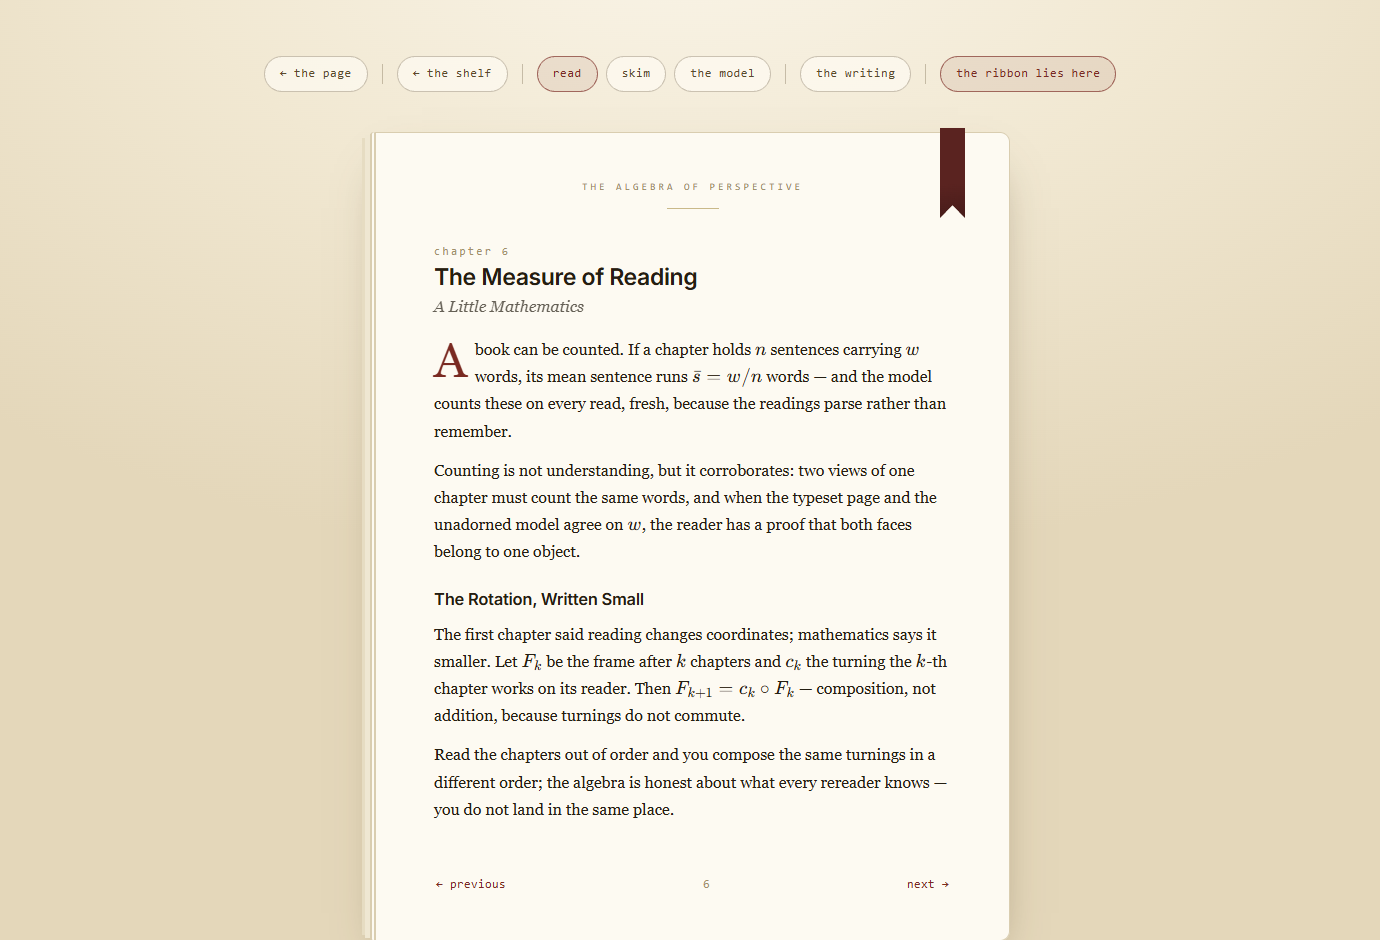
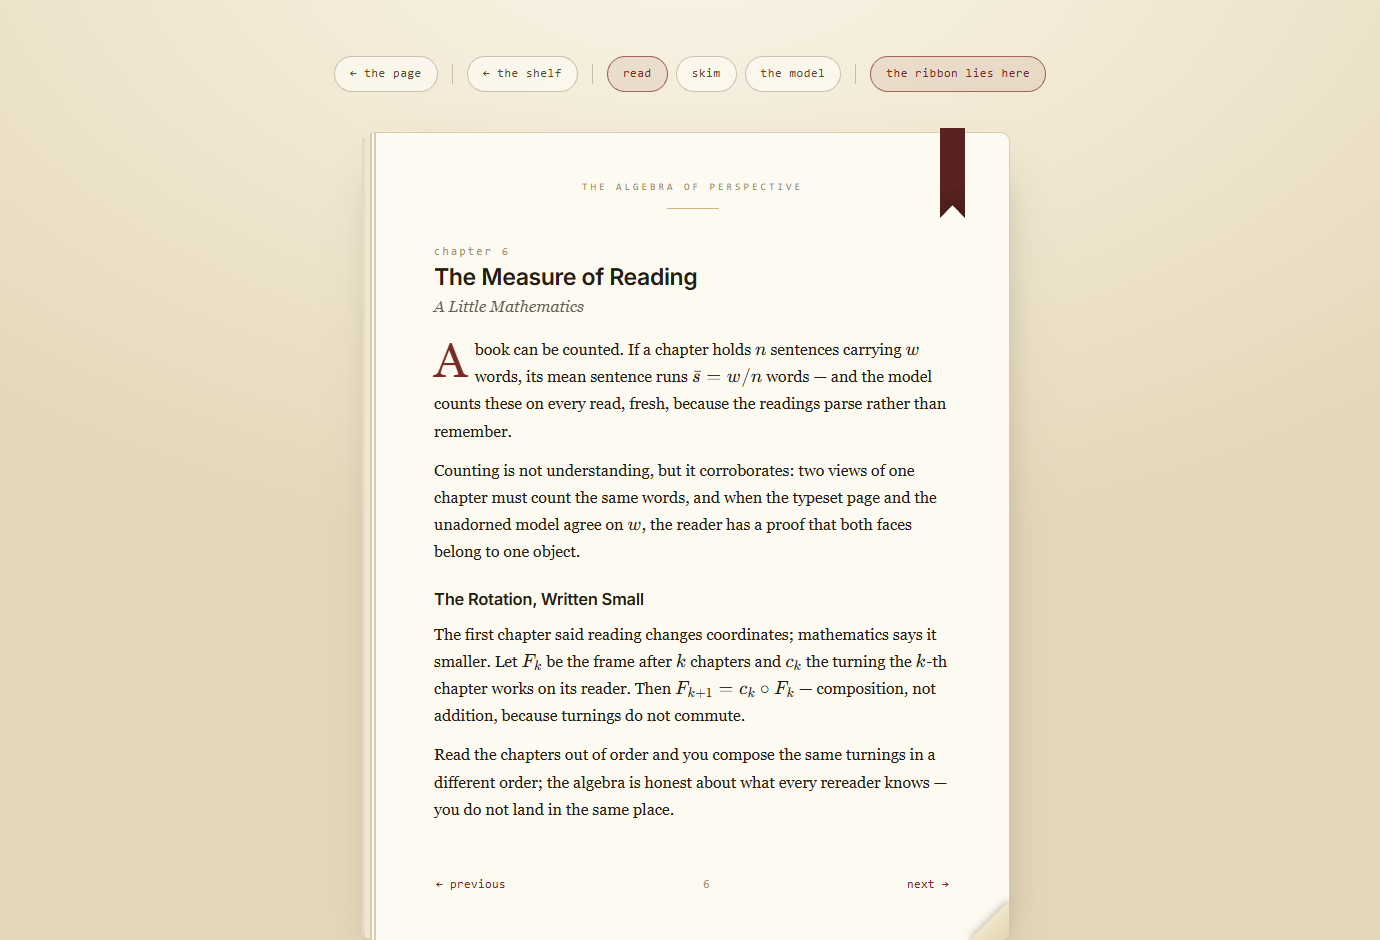
One cover, and the manuscript (Doug's demo pass): the face IS the cover — opening lands inside on the contents (folio 1), leafing back past the contents closes the book to its cover, the cover renders once; the code integrated INTO the book — a dog-eared corner turns every page over to its MANUSCRIP

Changed region(s): [[0.2181, 0.0617, 0.8101, 0.1234], [0.6855, 0.9564, 0.7478, 1.0]]

diff --git a/library/.public/package/app/src/sections/the-books.tsx b/library/.public/package/app/src/sections/the-books.tsx
@@ -37,7 +37,7 @@ import {
     Page, RunningHead, PageBody, PageTurns, PageTurn, Folio,
     ChapterNumber, ChapterTitle, ChapterSubtitle, Prose, EntryIndex,
     SectionHead, SectionSub, TocPage, TocLine, TocTag,
-    CodeDrawer, CodeTabs, CodeTab, CodeBlock, Ribbon,
+    CodeTabs, CodeTab, CodeBlock, Ribbon, DogEar,
 } from './book/books.styled';
 
 const modelSources: Record<string, string> = {
@@ -52,7 +52,7 @@ const modelSources: Record<string, string> = {
     'Bookmark.tsx': bookmarkSource,
 };
 
-const writingSources: Record<string, Record<string, string>> = {
+const manuscripts: Record<string, Record<string, string>> = {
     algebra: {
         '01-the-cover.tsx': algebraCoverSource,
         '02-the-synopsis.tsx': algebraSynopsisSource,
@@ -123,7 +123,7 @@ const row = (c: $Chapter, i: number): Row => ({
 const shelve = (key: string, ink: string, tall: number, b: $Book): Shelved => {
     b.ref = $(<Link for={`/books/${key}`}>{b.title?.copy ?? key}</Link>) as $Link;
     const rows = b.chapters.map(row);
-    const names = Object.keys(writingSources[key]);
+    const names = Object.keys(manuscripts[key]);
     rows.forEach((r, i) => {
         r.source = r.contents ? 'TableOfContents.tsx' : i === 0 ? names[0] : names[i - 1];
     });
@@ -248,9 +248,9 @@ function rightPage(b: Shelved, r: Row, mode: string, jump: (page: number) => voi
 class $TheBooks extends $Chemical {
     opened = '';
     open = false;
-    page = 0;
+    page = 1;
     mode = 'read';
-    writing = false;
+    over = false;
     tab = '';
     marked = '';
     ribbon = '';
@@ -258,7 +258,8 @@ class $TheBooks extends $Chemical {
     turn(p: number) {
         const held = shelf.find(b => b.key === this.opened);
         if (!held) return;
-        this.page = Math.max(0, Math.min(held.rows.length - 1, p));
+        this.over = false;
+        this.page = Math.max(1, Math.min(held.rows.length - 1, p));
         this.tab = held.rows[this.page].source;
     }
 
@@ -277,14 +278,14 @@ class $TheBooks extends $Chemical {
     }
 
     close() {
-        this.writing = false;
+        this.over = false;
         this.tab = '';
         this.marked = '';
         this.ribbon = '';
         setTimeout(() => {
             this.opened = '';
             this.open = false;
-            this.page = 0;
+            this.page = 1;
             this.mode = 'read';
         }, 0);
     }
@@ -306,10 +307,8 @@ class $TheBooks extends $Chemical {
                             <DayChip onClick={() => this.close()}>← the shelf</DayChip>
                             <DayRule />
                             <DayChip $active={this.mode === 'read'} onClick={() => { this.mode = 'read'; this.turn(this.page); }}>read</DayChip>
-                            <DayChip $active={this.mode === 'skim'} onClick={() => { this.mode = 'skim'; this.tab = 'Chapter.tsx'; }}>skim</DayChip>
-                            <DayChip $active={this.mode === 'model'} onClick={() => { this.mode = 'model'; this.tab = 'Book.tsx'; }}>the model</DayChip>
-                            <DayRule />
-                            <DayChip $active={this.writing} onClick={() => { this.writing = !this.writing; }}>the writing</DayChip>
+                            <DayChip $active={this.mode === 'skim'} onClick={() => { this.mode = 'skim'; }}>skim</DayChip>
+                            <DayChip $active={this.mode === 'model'} onClick={() => { this.mode = 'model'; }}>the model</DayChip>
                             {current && current.Opening === ChapterOpening && (
                                 <>
                                     <DayRule />
@@ -335,7 +334,7 @@ class $TheBooks extends $Chemical {
                     </ShelfBoard>
                 )}
                 {held && !this.open && (
-                    <CoverFace $ink={held.ink} data-cover onClick={() => { this.open = true; this.turn(0); }}>
+                    <CoverFace $ink={held.ink} data-cover onClick={() => { this.open = true; this.turn(1); }}>
                         <CoverTitle>{held.title}</CoverTitle>
                         {held.subtitle && <CoverSubtitle>{held.subtitle}</CoverSubtitle>}
                         <CoverRule />
@@ -343,66 +342,74 @@ class $TheBooks extends $Chemical {
                         <CoverInvitation>open the book →</CoverInvitation>
                     </CoverFace>
                 )}
-                {held && this.open && current && (
-                    <Page className="book-page">
-                        {this.marked && (
-                            <Ribbon
-                                data-ribbon
-                                $ink={held.ink}
-                                title={`the bookmark — ${this.ribbon}`}
-                                onClick={() => this.follow()}
-                            />
-                        )}
-                        <RunningHead
-                            style={{ cursor: 'pointer' }}
-                            title={current.contents ? 'to the cover' : 'to the contents'}
-                            onClick={() => this.turn(current.contents ? 0 : held.rows.findIndex(r => r.contents))}
-                        >
-                            {held.title}
-                        </RunningHead>
-                        <PageBody className="page-body">{rightPage(held, current, this.mode, (p) => this.turn(p))}</PageBody>
-                        <PageTurns>
-                            <PageTurn disabled={this.page === 0} onClick={() => { this.page = Math.max(0, this.page - 1); }}>
-                                ← previous
-                            </PageTurn>
-                            <Folio>{current.index}</Folio>
-                            <PageTurn disabled={this.page === held.rows.length - 1} onClick={() => { this.page = Math.min(held.rows.length - 1, this.page + 1); }}>
-                                next →
-                            </PageTurn>
-                        </PageTurns>
-                    </Page>
-                )}
-                {held && this.open && this.writing && (() => {
-                    const sources = { ...modelSources, ...writingSources[held.key] };
-                    const names = Object.keys(sources);
-                    const writingNames = Object.keys(writingSources[held.key]);
-                    const tab = names.includes(this.tab) ? this.tab : writingNames[Math.min(this.page, writingNames.length - 1)] ?? names[0];
+                {held && this.open && current && (() => {
+                    const sources = { ...modelSources, ...manuscripts[held.key] };
+                    const names = [current.source, ...Object.keys(modelSources).filter(n => n !== current.source)];
+                    const leaf = names.includes(this.tab) ? this.tab : current.source;
                     return (
-                        <CodeDrawer className="writing-drawer">
-                            <CodeTabs>
-                                {names.map(name => (
-                                    <CodeTab key={name} $active={tab === name} onClick={() => { this.tab = name; }}>
-                                        {name}
-                                    </CodeTab>
-                                ))}
-                            </CodeTabs>
-                            <CodeBlock>
-                                <Highlight code={sources[tab].trim()} language="tsx" theme={themes.github}>
-                                    {({ tokens, getLineProps, getTokenProps }) => (
-                                        <pre>
-                                            {tokens.map((line, i) => (
-                                                <div key={i} {...getLineProps({ line })}>
-                                                    <span className="line-number">{i + 1}</span>
-                                                    {line.map((token, j) => (
-                                                        <span key={j} {...getTokenProps({ token })} />
+                        <Page className={this.over ? 'book-page verso' : 'book-page'} style={this.over ? { background: '#fbf5e6' } : undefined}>
+                            {this.marked && (
+                                <Ribbon
+                                    data-ribbon
+                                    $ink={held.ink}
+                                    title={`the bookmark — ${this.ribbon}`}
+                                    onClick={() => this.follow()}
+                                />
+                            )}
+                            <RunningHead
+                                style={{ cursor: 'pointer' }}
+                                title={this.over ? 'turn back to the page' : current.contents ? 'to the cover' : 'to the contents'}
+                                onClick={() => {
+                                    if (this.over) this.over = false;
+                                    else if (current.contents) this.open = false;
+                                    else this.turn(held.rows.findIndex(r => r.contents));
+                                }}
+                            >
+                                {this.over ? `${leaf} — the manuscript` : held.title}
+                            </RunningHead>
+                            {!this.over && <PageBody className="page-body">{rightPage(held, current, this.mode, (p) => this.turn(p))}</PageBody>}
+                            {this.over && (
+                                <PageBody className="page-body manuscript">
+                                    <CodeTabs>
+                                        {names.map(name => (
+                                            <CodeTab key={name} $active={leaf === name} onClick={() => { this.tab = name; }}>
+                                                {name}
+                                            </CodeTab>
+                                        ))}
+                                    </CodeTabs>
+                                    <CodeBlock>
+                                        <Highlight code={sources[leaf].trim()} language="tsx" theme={themes.github}>
+                                            {({ tokens, getLineProps, getTokenProps }) => (
+                                                <pre>
+                                                    {tokens.map((line, i) => (
+                                                        <div key={i} {...getLineProps({ line })}>
+                                                            <span className="line-number">{i + 1}</span>
+                                                            {line.map((token, j) => (
+                                                                <span key={j} {...getTokenProps({ token })} />
+                                                            ))}
+                                                        </div>
                                                     ))}
-                                                </div>
-                                            ))}
-                                        </pre>
-                                    )}
-                                </Highlight>
-                            </CodeBlock>
-                        </CodeDrawer>
+                                                </pre>
+                                            )}
+                                        </Highlight>
+                                    </CodeBlock>
+                                </PageBody>
+                            )}
+                            <PageTurns>
+                                <PageTurn onClick={() => { if (this.page <= 1) this.open = false; else this.turn(this.page - 1); }}>
+                                    {this.page <= 1 ? '← the cover' : '← previous'}
+                                </PageTurn>
+                                <Folio>{current.index}</Folio>
+                                <PageTurn disabled={this.page === held.rows.length - 1} onClick={() => this.turn(this.page + 1)}>
+                                    next →
+                                </PageTurn>
+                            </PageTurns>
+                            <DogEar
+                                data-dogear
+                                title={this.over ? 'turn back to the page' : 'turn the page over — the manuscript'}
+                                onClick={() => { if (this.over) { this.over = false; } else { this.over = true; this.tab = current.source; } }}
+                            />
+                        </Page>
                     );
                 })()}
             </DayBackdrop>

diff --git a/library/.public/package/app/src/sections/book/books.styled.ts b/library/.public/package/app/src/sections/book/books.styled.ts
@@ -154,6 +154,26 @@ export const Page = styled.div`
     flex-direction: column;
 `;
 
+export const DogEar = styled.button`
+    position: absolute;
+    right: 0;
+    bottom: 0;
+    width: 42px;
+    height: 42px;
+    padding: 0;
+    border: none;
+    cursor: pointer;
+    background: linear-gradient(315deg, #e2d4ae 0%, #efe5cb 46%, rgba(0, 0, 0, 0.06) 49%, transparent 50%);
+    border-radius: 0 0 9px 0;
+    filter: drop-shadow(-2px -2px 3px rgba(70, 50, 20, 0.2));
+    transition: width 140ms ease, height 140ms ease;
+
+    &:hover {
+        width: 58px;
+        height: 58px;
+    }
+`;
+
 export const Ribbon = styled.button<{ $ink: string }>`
     position: absolute;
     top: -5px;
